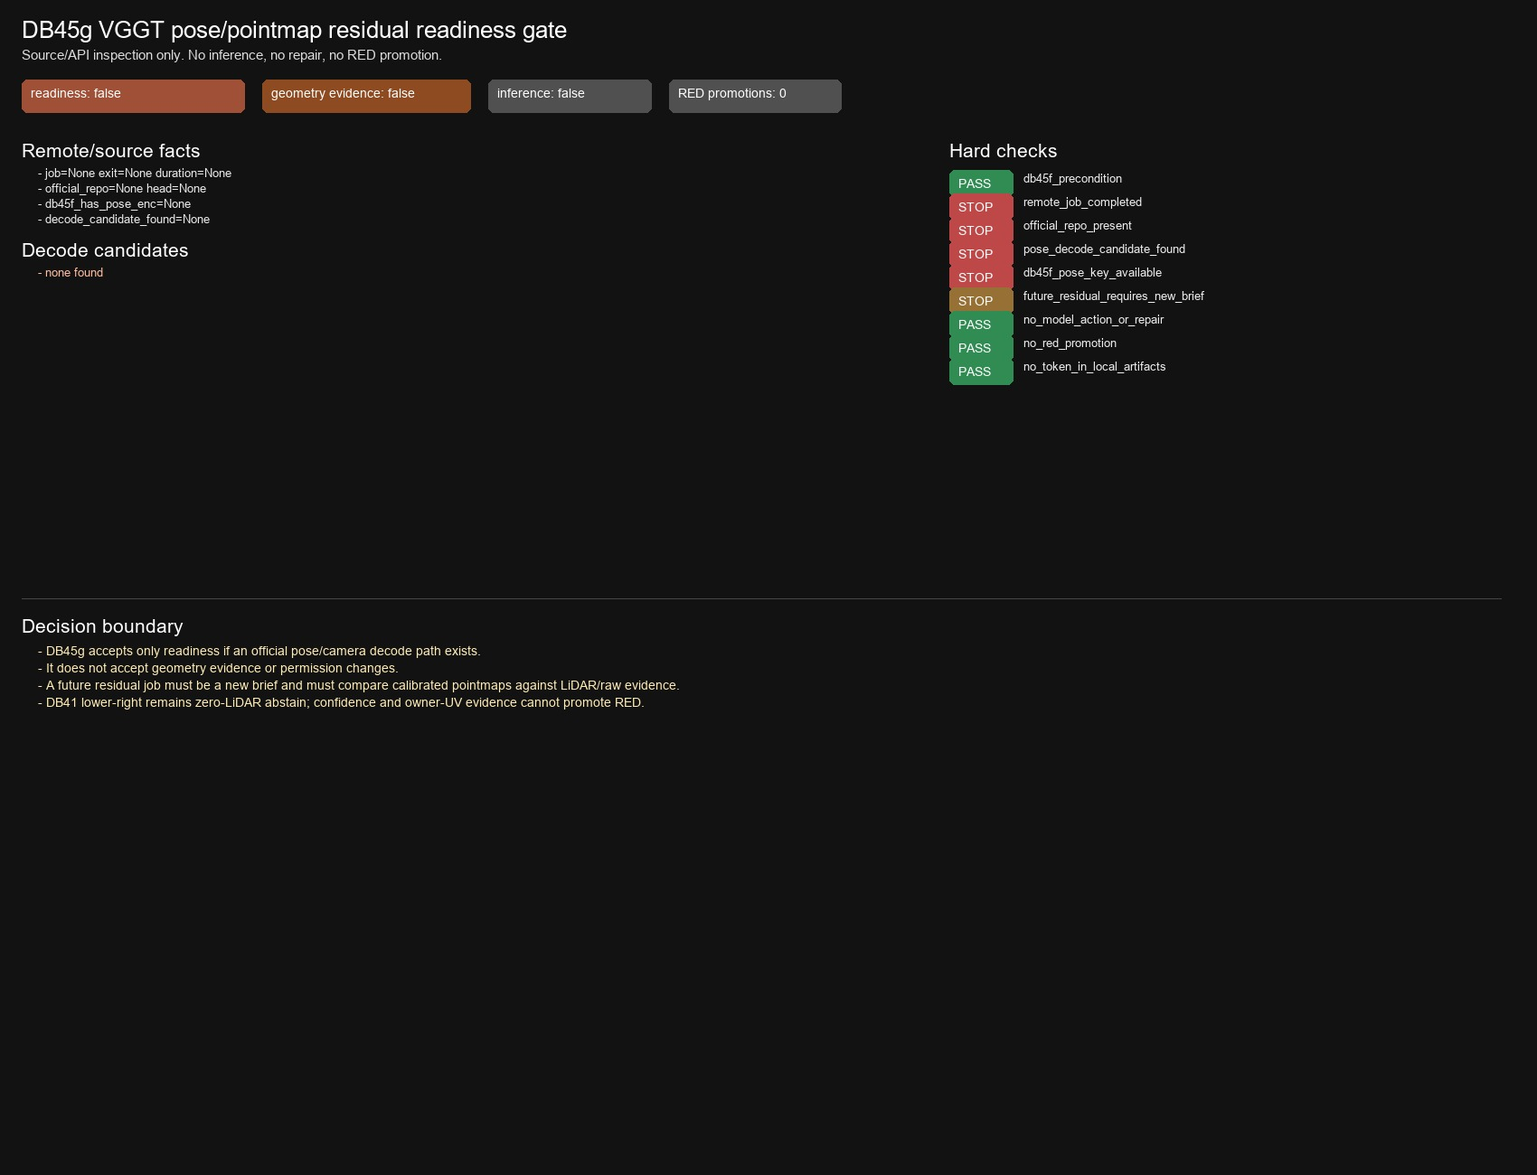
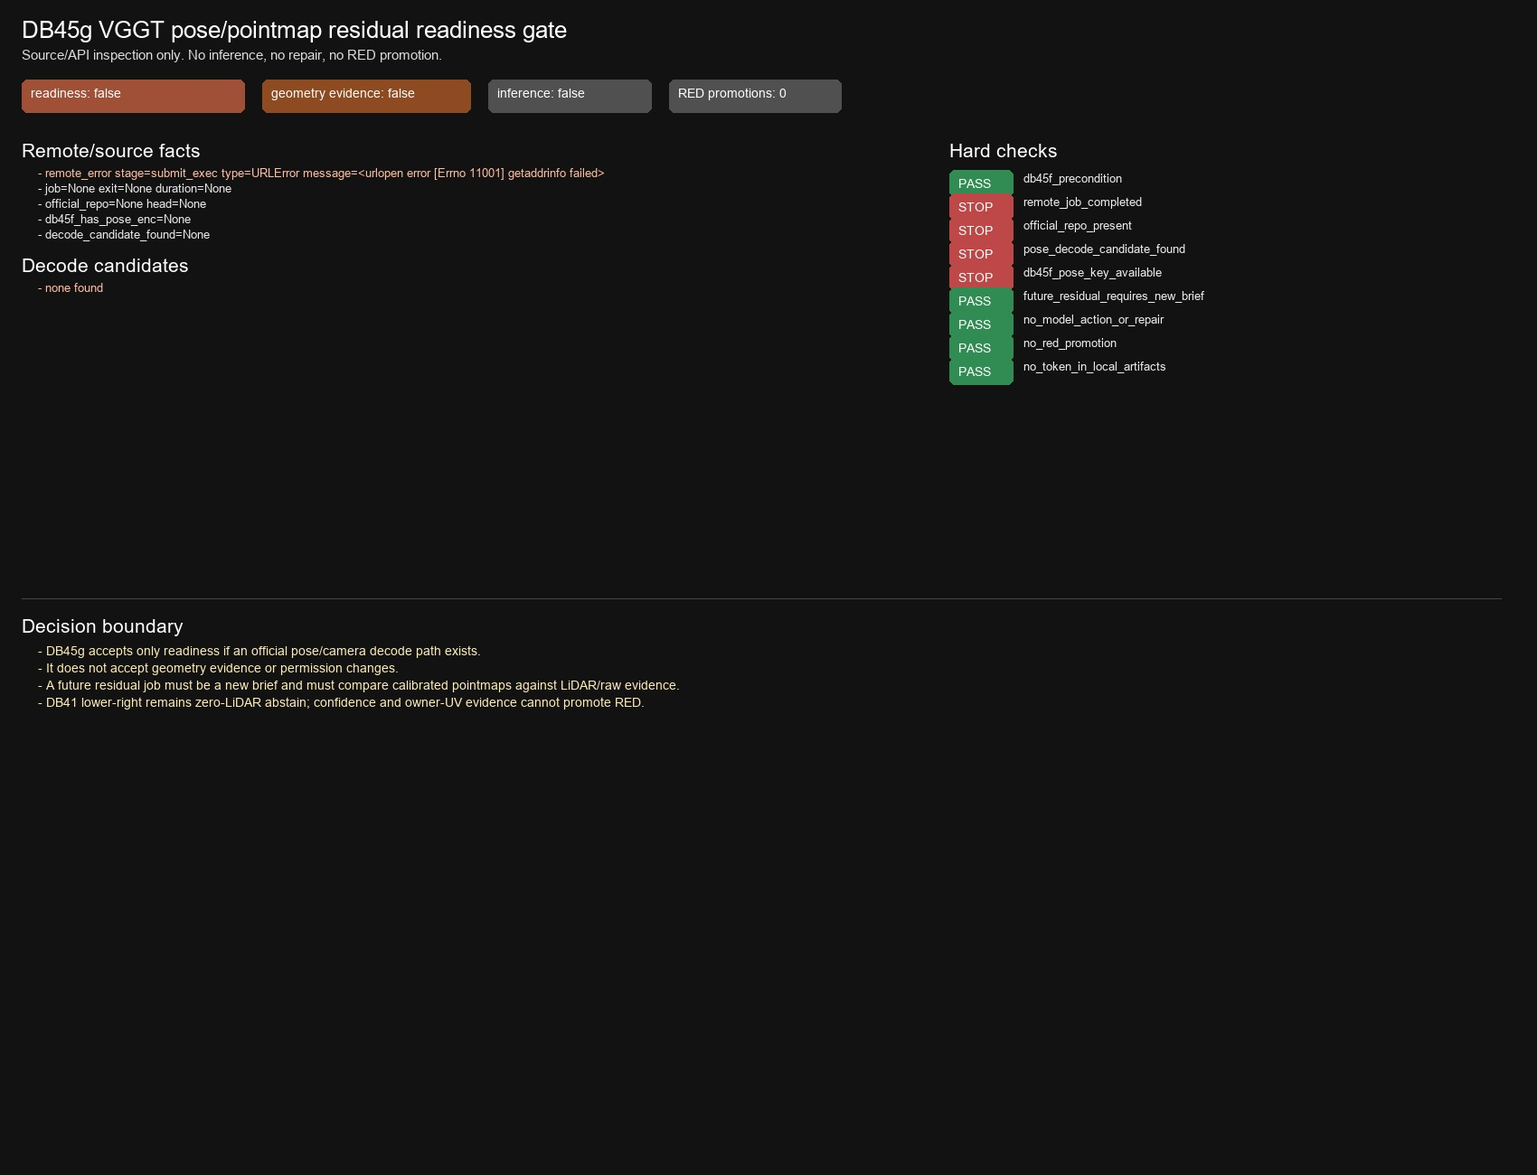
Update DB45g executor readiness pause

Changed region(s): [[0.0, 0.1231, 0.3741, 0.2462], [0.5924, 0.2462, 0.6859, 0.2769]]

diff --git a/scripts/phase3/db45g_vggt_pose_decode_readiness_gate.py b/scripts/phase3/db45g_vggt_pose_decode_readiness_gate.py
@@ -400,14 +400,24 @@ def build_checks(remote: dict[str, Any], db45f: dict[str, Any], secret_hits: lis
             "db45f_pose_key_available",
             readiness.get("db45f_has_pose_enc_key") is True,
             "blocker",
-            "DB45f remote VGGT prediction keys include pose_enc.",
+            "Remote source/API inspection must read the saved DB45f Drive result and confirm its VGGT prediction keys include pose_enc; a remote-unavailable STOP is not evidence that local DB45f lacks pose_enc.",
         ),
         chk(
             "future_residual_requires_new_brief",
-            readiness.get("future_residual_job_allowed_if_new_brief") in {True, False}
-            and readiness.get("claim") == "readiness-only; no geometry evidence accepted",
+            (
+                readiness.get("future_residual_job_allowed_if_new_brief") in {True, False}
+                and readiness.get("claim") == "readiness-only; no geometry evidence accepted"
+            )
+            or (
+                remote.get("error") is not None
+                and scope.get("model_inference") is False
+                and scope.get("renderer") is False
+                and scope.get("erp_repair") is False
+                and scope.get("source_replacement") is False
+                and scope.get("generated_image") is False
+            ),
             "scope",
-            "DB45g only decides readiness; any residual inference needs a new bounded sub-scope.",
+            "DB45g only decides readiness; any residual inference needs a new bounded sub-scope. Remote-unavailable states do not grant residual permission.",
         ),
         chk(
             "no_model_action_or_repair",
@@ -452,6 +462,18 @@ def build_board(manifest: dict[str, Any]) -> None:
     y = 154
     draw.text((24, y), "Remote/source facts", fill=(255, 255, 255), font=font(21))
     y += 30
+    err = remote.get("error")
+    if err:
+        y = draw_wrapped(
+            draw,
+            42,
+            y,
+            f"- remote_error stage={err.get('stage')} type={err.get('type')} message={err.get('message')}",
+            120,
+            (255, 190, 160),
+            13,
+            4,
+        )
     for line in [
         f"job={remote.get('colab_job', {}).get('job_id')} exit={remote.get('colab_job', {}).get('exit_code')} duration={remote.get('colab_job', {}).get('duration_s')}",
         f"official_repo={remote.get('official_repo', {}).get('exists')} head={remote.get('official_repo', {}).get('git_head')}",

diff --git a/agent/decision_briefs.md b/agent/decision_briefs.md
@@ -128,7 +128,7 @@ Max scope:
 - Phase6 sub-scope / DB45f (2026-06-04): VGGT target-ROI owner-UV sampling gate v0. Question: can the renderer's actual ERP-to-raw-camera source-owner `u_img/v_img` mapping turn DB45e's owner-camera confidence into pixel-targeted evidence for DB25/DB41 seam ROIs, and does that evidence justify any permission-state change? Hypothesis: exact source-owner UV sampling is feasible and will be stronger than DB45e owner summaries, but it will still not promote DB25/DB41 because VGGT pointmap/confidence sampled at target ROI owner pixels lacks DB45b target-surface raw/LiDAR support and may show model-internal confidence even on zero-LiDAR/no-evidence regions. Why now: DB45e proved official VGGT confidence exists but owner-camera aggregation is too weak; `render_camera_to_erp` already computes raw `u_img/v_img`, so the next minimal step is to expose/sample that mapping before abandoning or expanding VGGT. Expected evidence: one A100 job over BMW anchor 0 raw 7-camera input; explicit official preprocessing coordinate mapping; per-ROI source-owner UV valid fraction; sampled `depth`, `depth_conf`, `world_points`, and `world_points_conf` stats at target ROI owner pixels; optional model-internal point disagreement for overlap pixels; existing LiDAR/flow support side-by-side; generated-fake controls marked non-admissible; no-token scan; board with owner-UV sampled confidence/validity heatmaps and final permission labels. Kill criteria: renderer UV mapping is guessed rather than derived from the same calibration/projection math; VGGT preprocessing crop/pad mapping is not recorded; old uniform wrapper is used; more than one log/anchor is run; output is a renderer, repaired ERP, source replacement, or generated image; VGGT confidence alone promotes DB25/DB41 RED; DB41 lower-right does not remain zero-LiDAR abstain; model-internal pointmaps are treated as metric ego truth without LiDAR scale/residual; DB36/DB40 generated fake artifacts are laundered; DB32/G claims are overstated; the job becomes open-ended debugging. Max scope: one A100 inference job, one log/anchor (`02a00399...`, anchor 0), 7 raw ring cameras, three source-evidence ROIs plus DB36/DB40 non-admissible controls, no repair/generation/source replacement, no permission promotion unless DB45b target-surface support is explicitly satisfied. Required vision check: board must show sampled owner-UV validity, VGGT confidence bands/heatmaps, existing LiDAR/flow, generated-control boundary, and explicit no-repair/no-RED-promotion checks. Output location: `deliverables/dit360_v2/db45_geometry_evidence_audit/`.
 - Phase6 result (2026-06-04): DB45f accepted **vggt-target-uv-sampling-diagnostic-only** evidence. The one allowed A100 inference job completed remotely (`0404998afa534865b137b4c7eb97f41d`, exit `0`) and wrote Drive JSON; a later read-only recovery job (`81b6e87db75d445eb058829fc4a58865`, exit `0`) compacted that saved JSON without rerunning VGGT. Owner-UV sampling succeeded for DB25 longline / DB41 right / DB41 lower-right using the renderer's raw-camera UV mapping and official VGGT crop preprocessing. This improves DB45e's owner-camera summary into pixel-targeted model diagnostics, but it does not satisfy DB45b target-surface raw/LiDAR support and it kills VGGT confidence-only RED promotion. DB25/DB41 remain `RED/abstain`; DB41 lower-right remains zero-LiDAR abstain; DB36/DB40 generated fake-geometry controls remain non-admissible rejects. `accepted_db45_geometry_evidence=false`, `permission_state_changes=none`, `red_promotions=[]`. Detail archived at top of `progress.md`.
 - Phase7 sub-scope / DB45g (2026-06-04): VGGT pose/pointmap metric-residual readiness gate v0. Question: can official VGGT outputs be decoded and calibrated against the known Waymo-style camera rig and LiDAR evidence well enough to test target-surface residuals, rather than relying on confidence or owner-UV sampling alone? Hypothesis: a source-faithful promotion still probably fails because VGGT pointmaps live in a model coordinate frame and DB41 lower-right has zero LiDAR support, but an explicit readiness gate can determine whether a future residual job is legitimate or should be killed before another inference. Why now: DB45f killed confidence-only RED promotion; the only remaining VGGT path that could matter is calibrated pose/pointmap residual evidence against raw camera rays and LiDAR/planes. Expected evidence: official VGGT source/API inspection for `pose_enc`/camera decoding and coordinate conventions; whether camera centers can be aligned to known rig centers by a documented Sim(3) or equivalent; required residual metrics for sampled owner-UV points; explicit LiDAR/raw comparison schema; no-token scan; board or manifest showing ready/blocked status and next-run permission. Kill criteria: no official/dependable camera or pose decode path is found; coordinate alignment is guessed; Sim(3)/scale residual is not recorded; pointmaps are treated as metric ego truth without calibration; DB41 lower-right is promoted despite zero LiDAR support; confidence, detector-clean, or source-owner UV alone promotes RED; more than one source-inspection job is needed; any model inference/render/repair/source replacement/generation is run under this readiness sub-scope; DB32/G claims are overstated. Max scope: one lightweight remote source/API inspection job plus local manifest/board; no VGGT inference, no model load, no download, no repaired panorama, no renderer, no source replacement, no diffusion/refiner, no RED promotion. Required vision check: board must show official decode readiness, alignment/residual schema, DB45b guardrails, and explicit `no inference/no repair/no promotion` labels. Output location: `deliverables/dit360_v2/db45_geometry_evidence_audit/`.
-- Phase7 status (2026-06-04): opened but paused on executor availability, not a VGGT/API negative. Added `scripts/phase3/db45g_vggt_pose_decode_readiness_gate.py`; dry-run local manifest/board works. The one allowed source/API inspection did not start because the provided Cloudflare tunnel returned HTTP `530` at `/exec` and `/status`. The blocked artifact records `accepted_evidence_type=blocked-or-no-go`, `model_inference_ran=false`, `accepted_db45_geometry_evidence=false`, `permission_state_changes=none`, `red_promotions=[]`. Re-run only the same source/API inspection when a reachable executor is available; do not run residual inference before DB45g readiness passes.
+- Phase7 status (2026-06-04): opened but paused on executor availability, not a VGGT/API negative. Added `scripts/phase3/db45g_vggt_pose_decode_readiness_gate.py`; dry-run local manifest/board works. The one allowed source/API inspection has not started: one provided Cloudflare tunnel returned HTTP `530` at `/exec` and `/status`, and a later provided tunnel hostname failed DNS resolution (`NXDOMAIN` / `getaddrinfo failed`) before `/exec` submission. The blocked artifact records `accepted_evidence_type=blocked-or-no-go`, `model_inference_ran=false`, `accepted_db45_geometry_evidence=false`, `permission_state_changes=none`, `red_promotions=[]`; it now keeps `future_residual_requires_new_brief` as a PASS in remote-unavailable states because no residual permission is granted. Re-run only the same source/API inspection when a reachable executor is available; do not run residual inference before DB45g readiness passes.
 
 Required vision check:
 - Board must include raw-camera support crop, LiDAR/depth/flow evidence overlays if available, model confidence overlay, and final permission-state label.

diff --git a/agent/plans/2026-06-04-egsr-seam-and-route-roadmap.md b/agent/plans/2026-06-04-egsr-seam-and-route-roadmap.md
@@ -47,7 +47,7 @@ DB45e VGGT frozen-ROI confidence probe is completed and accepted as **vggt-roi-c
 
 DB45f VGGT target-ROI owner-UV sampling gate is completed and accepted as **vggt-target-uv-sampling-diagnostic-only** evidence. Outputs are under `deliverables/dit360_v2/db45_geometry_evidence_audit/`, with script `scripts/phase3/db45f_vggt_target_uv_sampling_gate.py`. The saved A100 inference result was recovered without rerunning VGGT. DB45f samples official VGGT maps at source-owner raw-camera UV pixels used by the frozen ERP seam ROIs and records official preprocessing mapping, but it remains model-diagnostic metadata only: no geometry evidence accepted, no repaired panorama, no source replacement, no RED promotion. It kills VGGT confidence-only RED promotion. DB25/DB41 remain `RED/abstain`, DB41 lower-right remains zero-LiDAR abstain, and DB36/DB40 remain generated fake-geometry rejects.
 
-DB45 is **not closed** by these readiness/diagnostic passes. DB45g is now opened as the next bounded readiness question: can VGGT pose/pointmap outputs be officially decoded and calibrated against the known camera rig/LiDAR well enough to justify a future residual job? DB45g is source/API inspection only: no model inference, no model load, no render/repair/source replacement, no RED promotion. Its first attempt is paused because the provided executor tunnel returned HTTP `530`; this is not a VGGT/API negative. Owner-camera confidence and target-ROI owner-UV model confidence are both now known insufficient for promotion. DB46/DB48 remain side branches for presentation-only or center-preserve experiments and should not jump ahead unless the user explicitly switches priority for meeting/demo needs.
+DB45 is **not closed** by these readiness/diagnostic passes. DB45g is now opened as the next bounded readiness question: can VGGT pose/pointmap outputs be officially decoded and calibrated against the known camera rig/LiDAR well enough to justify a future residual job? DB45g is source/API inspection only: no model inference, no model load, no render/repair/source replacement, no RED promotion. Its source/API inspection has not actually started: one provided executor tunnel returned HTTP `530`, and a later provided tunnel hostname failed DNS resolution (`NXDOMAIN` / `getaddrinfo failed`) before `/exec` submission. This is executor/tunnel availability only, not a VGGT/API negative. Owner-camera confidence and target-ROI owner-UV model confidence are both now known insufficient for promotion. DB46/DB48 remain side branches for presentation-only or center-preserve experiments and should not jump ahead unless the user explicitly switches priority for meeting/demo needs.
 
 ---
 
@@ -296,7 +296,7 @@ These are roadmap items, not direct execution commands. DB43 and DB44 are comple
 - DB45d VGGT official setup/load smoke: setup/checkpoint/API ready for a future ROI probe, but no geometry evidence accepted.
 - DB45e VGGT frozen-ROI confidence probe: accepted diagnostic owner-camera confidence only; no target-surface mapping, no geometry evidence, no RED promotion.
 - DB45f VGGT target-ROI owner-UV sampling gate: accepted diagnostic-only target-pixel VGGT metadata; confidence-only RED promotion killed; no geometry evidence, no RED promotion.
-- DB45g VGGT pose/pointmap metric-residual readiness gate: opened and paused on executor HTTP 530; source/API inspection only, no inference.
+- DB45g VGGT pose/pointmap metric-residual readiness gate: opened and paused on executor/tunnel availability (HTTP 530 earlier; latest hostname DNS `NXDOMAIN` / `getaddrinfo failed` before `/exec`); source/API inspection has not started; no inference.
 
 **Parked future subtracks under DB-45 unless split into separate briefs:**
 

diff --git a/agent/handoff.md b/agent/handoff.md
@@ -3,7 +3,7 @@
 > ## 2026-06-04 CURRENT EGSR STATE - read before older banners
 > Current execution is anchored to `Waymo2Panorama` Waymo-style data/artifacts/calibration/ROIs, not a generic AV2 assumption. DB32 `s40` is the Bosch-facing presentation/handoff candidate with source-sidestep + generated-sky caveats; it is not a fully source-faithful panorama, not a source-faithful ceiling, and not an original `G_bmw_pano` seam repair. `G_bmw_pano` is only the classic BMW failure / diagnostic reference and has been visually rejected as the default repair base.
 >
-> DB43 Source-Faithfulness Gate and DB44 EGSR dispatcher are accepted. DB45 Geometry foundation evidence audit is still running. Completed DB45 substeps: DB45a current-runtime VGGT no-go; DB45b permission calibration; DB45c HF Commercial access/schema gate; DB45d official VGGT setup/load smoke; DB45e official VGGT frozen-ROI confidence probe; DB45f official VGGT target-ROI owner-UV sampling gate. DB45e accepts only `vggt-roi-confidence-diagnostic-only`, and DB45f accepts only `vggt-target-uv-sampling-diagnostic-only`: official VGGT ran once on BMW anchor 0 and produced real `depth_conf` / `world_points_conf`, then DB45f sampled those maps at source-owner raw-camera UV pixels used by the frozen ERP seam ROIs. This is stronger diagnostic metadata than owner-camera summaries, but still not target-surface geometry evidence, not metric ego truth, and not source-faithful repair permission. It kills VGGT confidence-only RED promotion. DB25/DB41 remain `RED/abstain`; DB41 lower-right remains zero-LiDAR abstain; DB36/DB40 remain generated fake-geometry rejects; no RED promotion occurred.
+> DB43 Source-Faithfulness Gate and DB44 EGSR dispatcher are accepted. DB45 Geometry foundation evidence audit is still running. Completed DB45 substeps: DB45a current-runtime VGGT no-go; DB45b permission calibration; DB45c HF Commercial access/schema gate; DB45d official VGGT setup/load smoke; DB45e official VGGT frozen-ROI confidence probe; DB45f official VGGT target-ROI owner-UV sampling gate. DB45e accepts only `vggt-roi-confidence-diagnostic-only`, and DB45f accepts only `vggt-target-uv-sampling-diagnostic-only`: official VGGT ran once on BMW anchor 0 and produced real `depth_conf` / `world_points_conf`, then DB45f sampled those maps at source-owner raw-camera UV pixels used by the frozen ERP seam ROIs. This is stronger diagnostic metadata than owner-camera summaries, but still not target-surface geometry evidence, not metric ego truth, and not source-faithful repair permission. It kills VGGT confidence-only RED promotion. DB45g is open/paused on executor/tunnel availability: the source/API inspection has not started because the provided executor URL first returned HTTP `530`, then a later hostname failed DNS resolution (`NXDOMAIN` / `getaddrinfo failed`) before `/exec` submission. This is not a VGGT/API negative. DB25/DB41 remain `RED/abstain`; DB41 lower-right remains zero-LiDAR abstain; DB36/DB40 remain generated fake-geometry rejects; no RED promotion occurred.
 >
 > Next source-faithful DB45 work must open a fresh bounded brief and bring true target-surface evidence beyond VGGT confidence (track consistency, LiDAR/raw residuals, calibrated pointmap checks, or equivalent). Owner-camera and target-ROI owner-UV VGGT confidence alone are now known insufficient. Do not reopen prompt-only DiT/FLUX ground/curb/lane/right-line repair, and do not continue any direction after kill criteria without archiving it in `progress.md`.
 

diff --git a/agent/progress.md b/agent/progress.md
@@ -3,9 +3,9 @@
 > ### 2026-06-04 (DB-45g VGGT pose/pointmap residual readiness - opened / executor unavailable)
 > **Goal:** after DB45f killed VGGT confidence-only RED promotion, open the next legitimate VGGT question: can official VGGT pose/pointmap outputs be decoded and calibrated against the known camera rig/LiDAR well enough to support a future target-surface residual job?
 > **What ran:** opened the DB45g sub-scope in `agent/decision_briefs.md` and added `scripts/phase3/db45g_vggt_pose_decode_readiness_gate.py`. The script is intentionally source/API inspection only: no HF token, no model load, no VGGT inference, no download, no renderer, no repaired ERP, no source replacement, no generated image, and no RED promotion.
-> **Runtime result:** attempted the one allowed Colab executor source/API inspection, but the provided Cloudflare tunnel returned HTTP `530` at `/exec`; a direct `/status` check returned the same `530`. The script now catches submit-stage HTTP errors and writes a blocked manifest/board instead of leaving a traceback. This is an executor/tunnel availability blocker, not a VGGT source/API conclusion.
+> **Runtime result:** attempted the one allowed Colab executor source/API inspection. The first provided Cloudflare tunnel returned HTTP `530` at `/exec` and `/status`; a later user-provided tunnel hostname failed DNS resolution (`NXDOMAIN` / `getaddrinfo failed`) before `/exec` submission. The script now catches submit-stage HTTP/DNS errors and writes a blocked manifest/board instead of leaving a traceback. This is an executor/tunnel availability blocker, not a VGGT source/API conclusion.
 > **Decision:** `accepted_evidence_type=blocked-or-no-go`, `residual_readiness=false`, `accepted_db45_geometry_evidence=false`, `model_inference_ran=false`, `permission_state_changes=none`, `red_promotions=[]`. DB45g remains open/paused until a reachable executor is available. Do not run a residual inference before DB45g source/API readiness passes.
-> **Checks / vision:** DB45f precondition passes; submit-stage remote job completion, official repo presence, pose decode candidate, and DB45f pose-key checks are blocked because the executor could not be reached. No model action/repair, no RED promotion, and no token-in-artifact checks pass. Reviewed `db45g_vggt_pose_decode_readiness_board.jpg`; it is nonblank/readable and clearly labels readiness=false, inference=false, geometry=false, RED promotions 0.
+> **Checks / vision:** DB45f precondition passes; submit-stage remote job completion, official repo presence, pose decode candidate, and DB45f pose-key checks are blocked because the executor could not be reached. The scope check now explicitly passes in remote-unavailable states because no residual permission is granted; any residual job still requires a fresh bounded sub-scope. No model action/repair, no RED promotion, and no token-in-artifact checks pass. Reviewed `db45g_vggt_pose_decode_readiness_board.jpg`; it is nonblank/readable and clearly labels readiness=false, inference=false, geometry=false, RED promotions 0, and shows the current DNS submit error.
 > **Deliverables:** `scripts/phase3/db45g_vggt_pose_decode_readiness_gate.py`, `deliverables/dit360_v2/db45_geometry_evidence_audit/db45g_vggt_pose_decode_readiness_remote_result.json`, `db45g_vggt_pose_decode_readiness_manifest.json`, and `db45g_vggt_pose_decode_readiness_board.jpg`.
 > ---
 

diff --git a/agent/README.md b/agent/README.md
@@ -2,7 +2,7 @@
 
 > **TL;DR for agents new to this repo**: the 4 living docs are `handoff.md` + `progress.md` + `decision_briefs.md` + this `README.md` — write to those ONLY. Don't create new `.md` files under `deliverables/`. **Before starting any new experiment direction, open a brief in `decision_briefs.md` (the experiment gate — it has Kill criteria + Max scope).** Read the [rules below](#-rules-for-new-agents-per-user-2026-05-27) FIRST.
 
-> **Current pointer (2026-06-04):** read the top of `handoff.md`, `progress.md`, `decision_briefs.md`, and `plans/2026-06-04-egsr-seam-and-route-roadmap.md` before acting. DB43/DB44 are accepted; DB45 is running. DB45e accepted only `vggt-roi-confidence-diagnostic-only` evidence, and DB45f accepted only `vggt-target-uv-sampling-diagnostic-only` evidence: official VGGT ran once on BMW anchor 0, then DB45f sampled VGGT maps at source-owner raw-camera UV pixels used by frozen ERP seam ROIs. This is diagnostic metadata only, not physical target-surface geometry evidence or repair permission; it kills VGGT confidence-only RED promotion. DB25/DB41 remain `RED/abstain`, DB36/DB40 remain generated fake-geometry rejects, and no RED promotion occurred.
+> **Current pointer (2026-06-04):** read the top of `handoff.md`, `progress.md`, `decision_briefs.md`, and `plans/2026-06-04-egsr-seam-and-route-roadmap.md` before acting. DB43/DB44 are accepted; DB45 is running. DB45e accepted only `vggt-roi-confidence-diagnostic-only` evidence, and DB45f accepted only `vggt-target-uv-sampling-diagnostic-only` evidence: official VGGT ran once on BMW anchor 0, then DB45f sampled VGGT maps at source-owner raw-camera UV pixels used by frozen ERP seam ROIs. This is diagnostic metadata only, not physical target-surface geometry evidence or repair permission; it kills VGGT confidence-only RED promotion. DB45g is open/paused on executor/tunnel availability: the source/API inspection has not started because the provided executor URL first returned HTTP `530`, then a later hostname failed DNS resolution (`NXDOMAIN`). This is not a VGGT/API negative. DB25/DB41 remain `RED/abstain`, DB36/DB40 remain generated fake-geometry rejects, and no RED promotion occurred.
 
 ---
 
